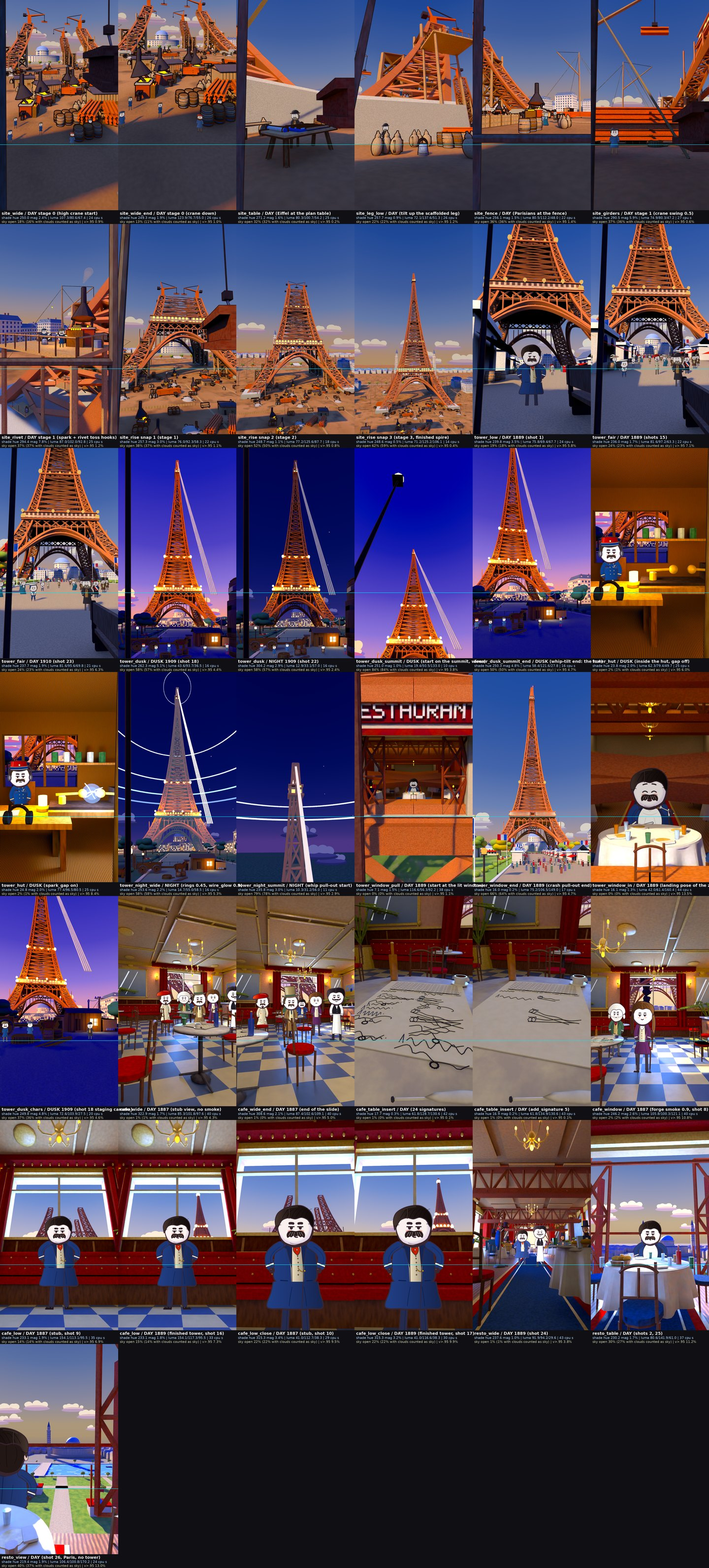
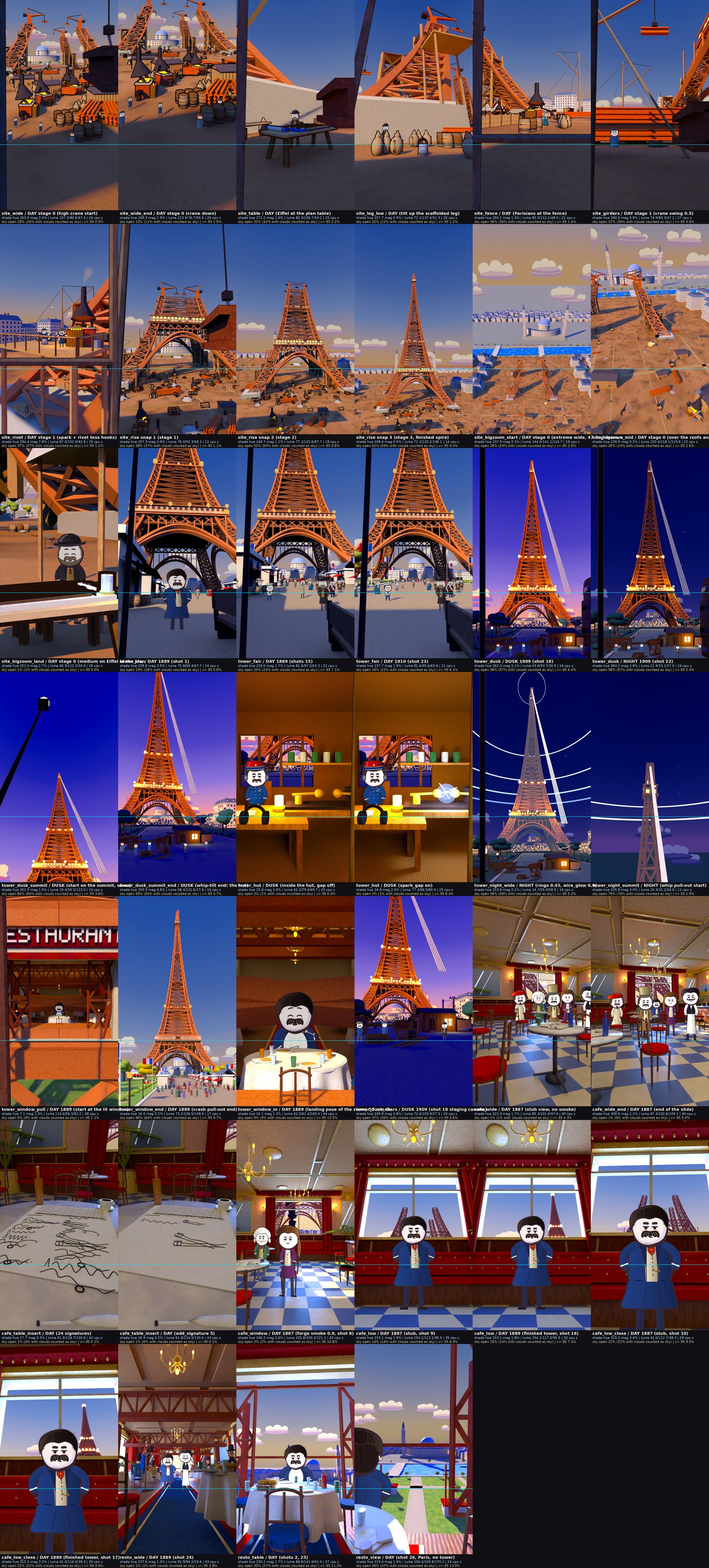
Film 20: SITE BIGZOOM cameras (site_bigzoom_start/mid/land), Paris+Seine backdrop, yard dressing, plan table, beacon hook

diff --git a/film/v3/set3d20/site20.py b/film/v3/set3d20/site20.py
@@ -23,7 +23,7 @@ CAMS_M = dict(
     site_table=dict(loc=(31.6, -88.2, 1.5), look=(34.4, -81.0, 1.9), lens=22),
     site_bigzoom_start=dict(loc=(0.0, -310.0, 235.0), look=(0.0, -90.0, 0.0), lens=22, shift=0.37),
     site_bigzoom_mid=dict(loc=(14.0, -195.0, 75.0), look=(34.0, -84.0, 4.0), lens=22, shift=0.08),
-    site_bigzoom_land=dict(loc=(32.7, -86.4, 2.0), look=(35.0, -80.6, 1.35), lens=40),
+    site_bigzoom_land=dict(loc=(32.7, -86.4, 2.0), look=(35.0, -80.6, 1.35), lens=62),
     site_leg_low=dict(loc=(-60.0, -82.0, 1.4), look=(-52.0, -58.0, 14.0), lens=22, shift=-0.2),
     site_fence=dict(loc=(-20.0, -109.5, 1.5), look=(-2.0, -98.0, 2.5), lens=22),
     site_girders=dict(loc=(-66.0, -45.0, 1.3), look=(-66.0, -25.0, 2.4), lens=22, shift=0.1),

diff --git a/film/v3/set3d20/API.md b/film/v3/set3d20/API.md
@@ -147,3 +147,10 @@ The seated Maupassant has no seated puppet pose yet (stand-in card is lowered); 
 * **tower_window_pull:** the facade is flat cream framed by riveted red-brown lattice girders (belts, posts, X-braced panels, two diagonals across the glass); lit interior (cream wall, navy carpet, white cloths, blue chairs, 3 gas lamps); camera 6.2 m from the glass.
 * **tower_fair:** 24 cast20 crowd cards (`set_crowd` levels 8 / 16 / 24 cards + far standees) >= 40 px in the midground; **1910 differs** from 1889: pavilions and kiosks are gone, a 1910 biplane crosses the sky, the antenna wires and hut are up (`set_year(1910)`).
 * **tower_dusk_chars** (new camera, `tower_dusk` presets, shots 18 / 22): (-8,-224,1.6) m, shift_y +0.10: old Eiffel, officer, three demolition men with heads y 600-850.
+
+## BIGZOOM 1 cameras (SITE, stage 0; Eiffel at mark `eiffel_table`)
+Metres in tower-local world (x1.88 for D). Presets/tiles: S11 site_bigzoom_start, S12 mid, S13 land. Hook `set_beacon(on)`: warm glow sphere above the plan table; ON for start/mid, OFF for land.
+- site_bigzoom_start: loc (0,-310,235) look (0,-90,0) lens 22 shift +0.37
+- site_bigzoom_mid: loc (14,-195,75) look (34,-84,4) lens 22 shift +0.08
+- site_bigzoom_land: loc (32.7,-86.4,2.0) look (35.0,-80.6,1.35) lens 62
+PLAN_TABLE moved to (34,-82); site_table camera changed accordingly. Land: Eiffel head 178 px (chin 690, feet 1071 = ~36% of height), ground small.
